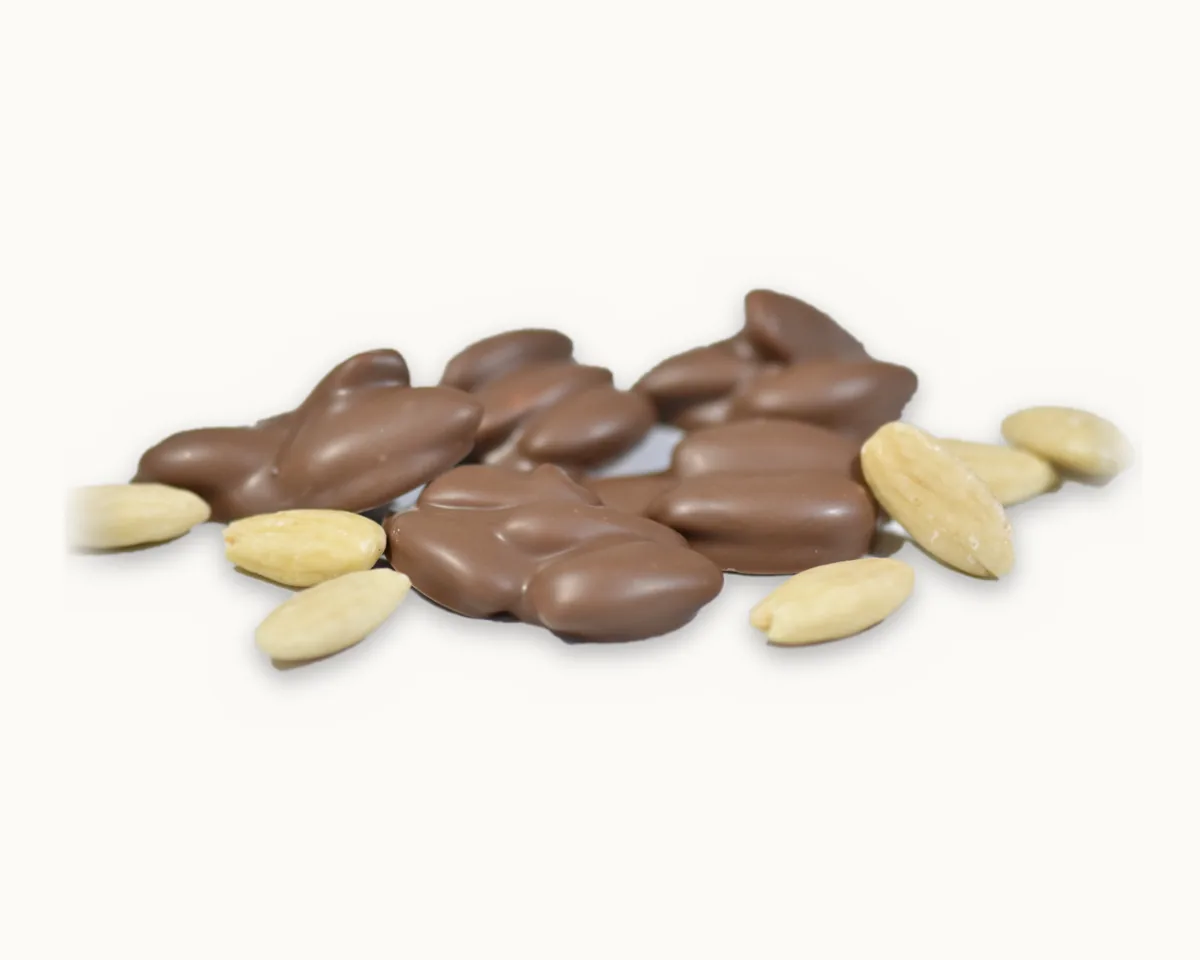
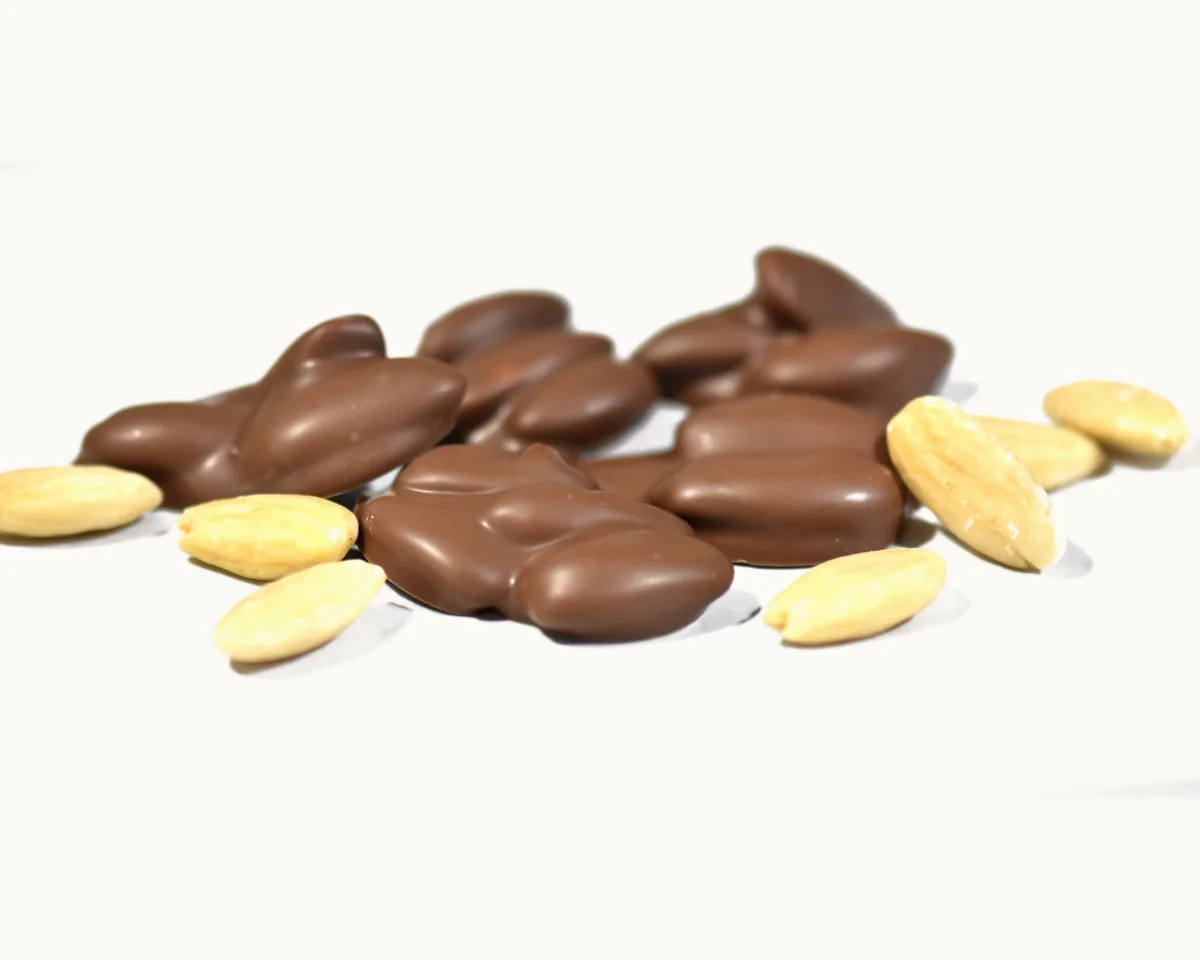
Wrapped chocolate: photos for Crispy Feuilletine and Hazelnut Praline; redo mendiants
All four photos keep their real shadows; only the paper is evened out
to the card's white, instead of cutting the products out.

Claude-Session: https://claude.ai/code/session_019Ed87ugP3JYvaEHiqcZahT

Changed region(s): [[0.0, 0.25, 1.0, 0.7188]]

diff --git a/assorted.html b/assorted.html
@@ -88,7 +88,8 @@
             "desc": "Delicate layers of crisp feuilletine embraced in smooth chocolate.",
             "size": "500 G",
             "price": 190,
-            "paint": "p2"
+            "paint": "p2",
+            "image": "wrapped-feuilletine.webp"
       },
       {
             "name": "Hazelnut Praline",
@@ -96,7 +97,8 @@
             "desc": "Smooth, rich chocolate blended with roasted hazelnut praline.",
             "size": "500 G",
             "price": 190,
-            "paint": "p7"
+            "paint": "p7",
+            "image": "wrapped-hazelnut-praline.webp"
       },
       {
             "name": "Mix Assorted",
